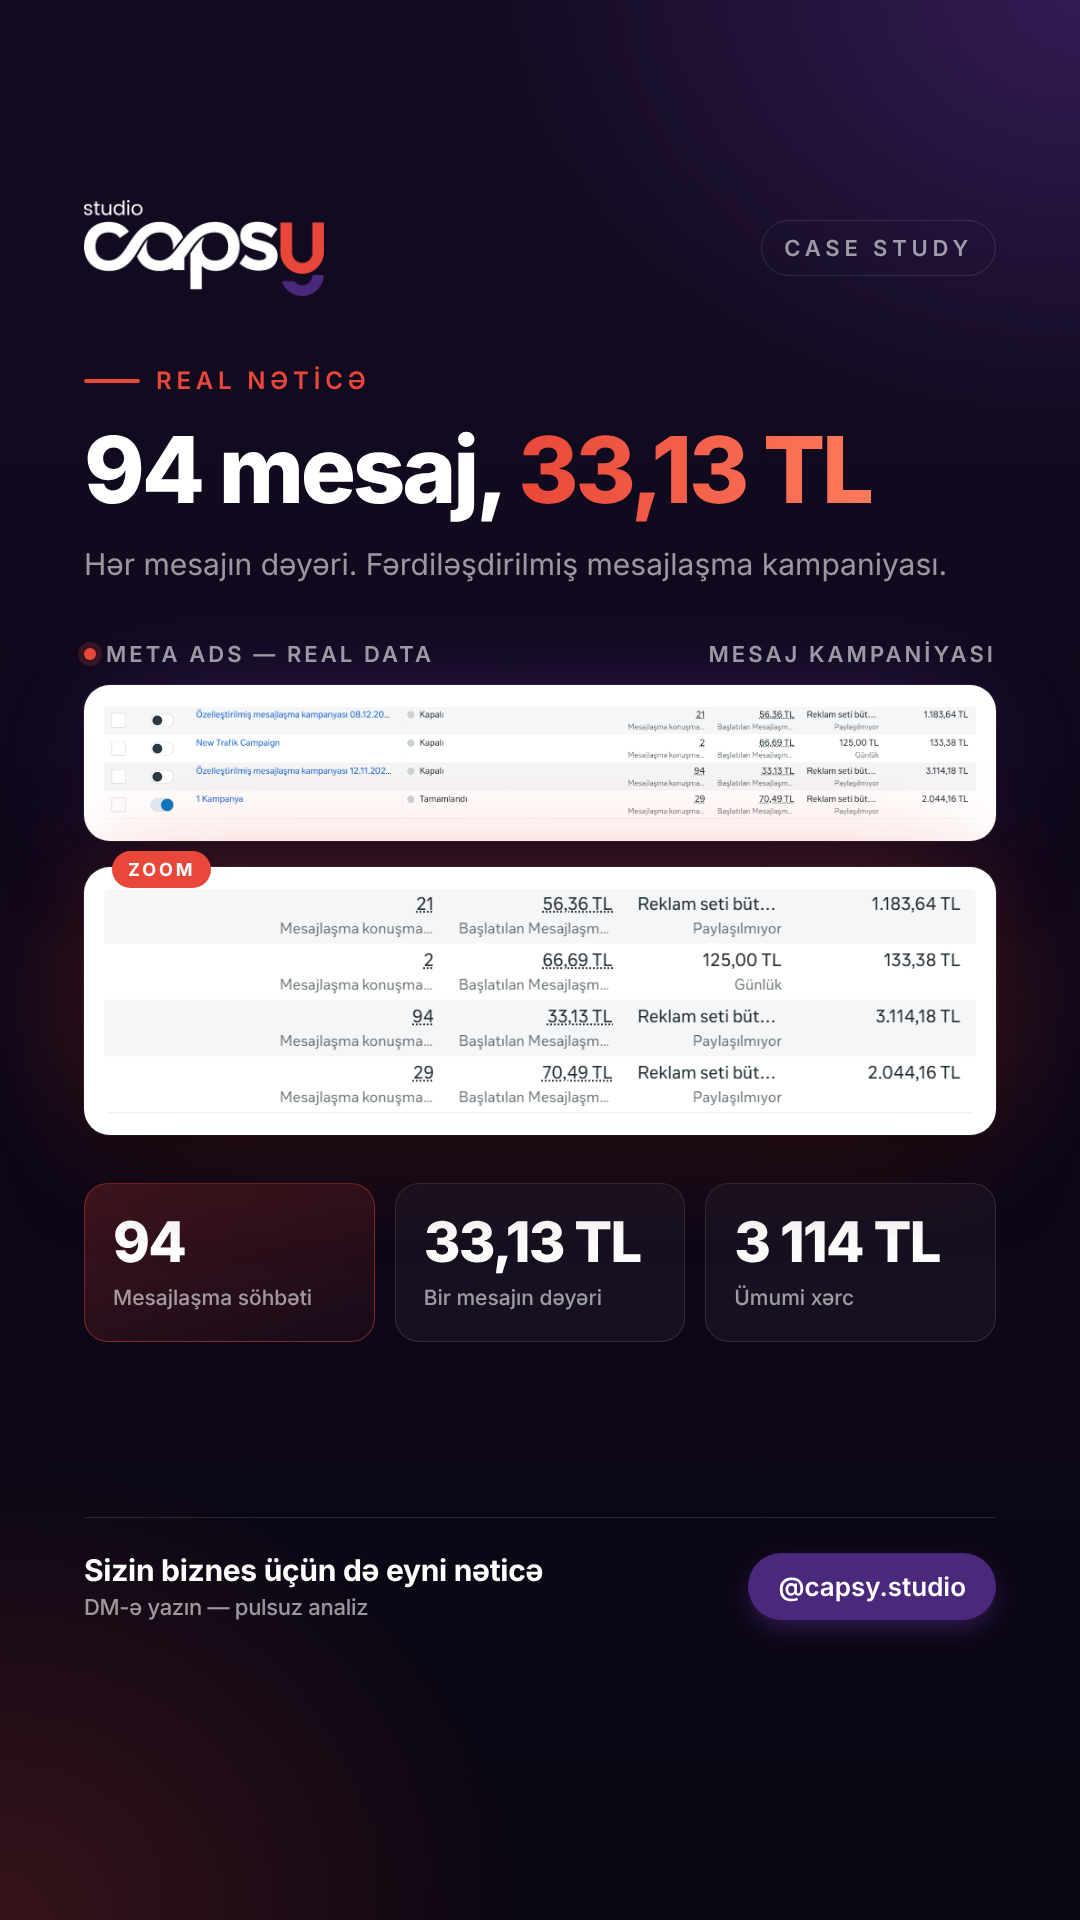
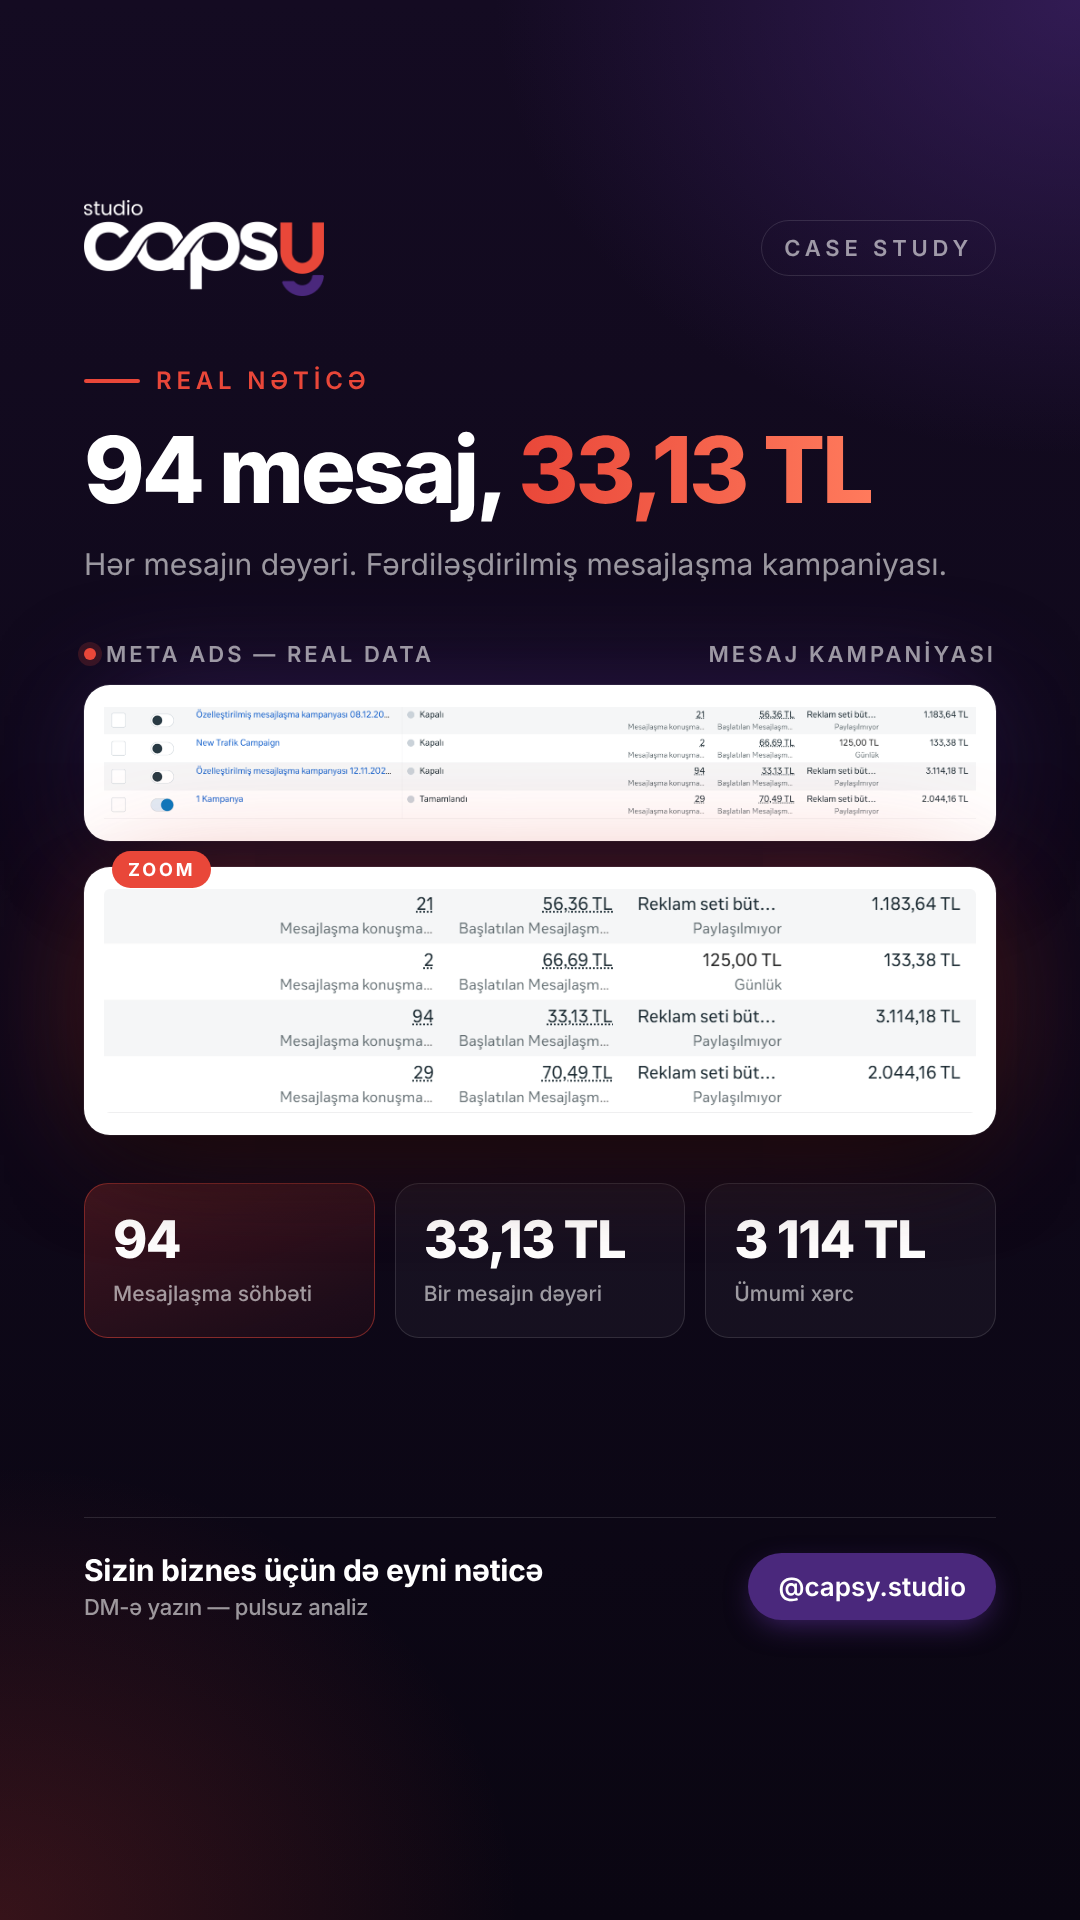
Add three more case renders (engagement, seating, profile visits)
Claude-Session: https://claude.ai/code/session_01NvKN5whoxfdPpYdNEJ4QWf

Changed region(s): [[0.3972, 0.625, 0.5806, 0.6875], [0.6722, 0.625, 0.8556, 0.6875], [0.0917, 0.625, 0.275, 0.6875]]

diff --git a/capsy-template/template.html b/capsy-template/template.html
@@ -50,7 +50,7 @@
   .metrics{margin-top:48px;display:grid;grid-template-columns:repeat(3,1fr);gap:20px}
   .m{padding:30px 28px;border-radius:24px;background:rgba(255,255,255,.04);border:1px solid var(--line)}
   .m:first-child{background:linear-gradient(160deg,rgba(233,71,57,.22),rgba(233,71,57,.05));border-color:rgba(233,71,57,.45)}
-  .m b{display:block;font-size:56px;line-height:1;font-weight:800;letter-spacing:-.03em}
+  .m b{display:block;white-space:nowrap;font-size:52px;line-height:1;font-weight:800;letter-spacing:-.03em}
   .m span{display:block;margin-top:14px;font-size:21px;line-height:1.3;color:var(--muted);font-weight:500}
 
   .foot{margin-top:auto;display:flex;align-items:center;justify-content:space-between;padding-top:34px;border-top:1px solid var(--line)}

diff --git a/capsy-template/render.py b/capsy-template/render.py
@@ -19,6 +19,15 @@ CASES = {
   "case-5usd": dict(img="assets/ref-4.png", client="Gündə 5 $ büdcə",
       title="Gündə 5 $, <em>0,77 $</em>", sub="Hər mesajın dəyəri. Kiçik büdcə, real mesajlar.", zx=100,
       m1v="15", m1l="Mesajlaşma söhbəti", m2v="0,77 $", m2l="Bir mesajın dəyəri", m3v="5 $", m3l="Gündəlik büdcə"),
+  "case-etkilesim-2444": dict(img="assets/ref-6.png", client="Postun təbliği",
+      title="Etkileşim: <em>0,22 TL</em>", sub="2 444 etkileşim, gündə 215 TL büdcə ilə.", zx=100,
+      m1v="2 444", m1l="Gönderi etkileşimi", m2v="0,22 TL", m2l="Bir etkileşimin dəyəri", m3v="215 TL", m3l="Gündəlik büdcə"),
+  "case-koltuk-494": dict(img="assets/ref-7.png", client="Xidmət / Mebel",
+      title="494 mesaj, <em>26,45 TL</em>", sub="Hər mesajın dəyəri. Üç kampaniya, üçü də 30 TL-dən aşağı.", zx=100,
+      m1v="494", m1l="Mesajlaşma söhbəti", m2v="26,45 TL", m2l="Bir mesajın dəyəri", m3v="350 TL", m3l="Gündəlik büdcə"),
+  "case-hali-8371": dict(img="assets/ref-8.png", client="Profil ziyarəti",
+      title="8 371 ziyarət, <em>1,02 TL</em>", sub="Hər Instagram profil ziyarətinin dəyəri.", zx=100,
+      m1v="8 371", m1l="Profil ziyarəti", m2v="1,02 TL", m2l="Bir ziyarətin dəyəri", m3v="300 TL", m3l="Gündəlik büdcə"),
 }
 
 with sync_playwright() as pw:
